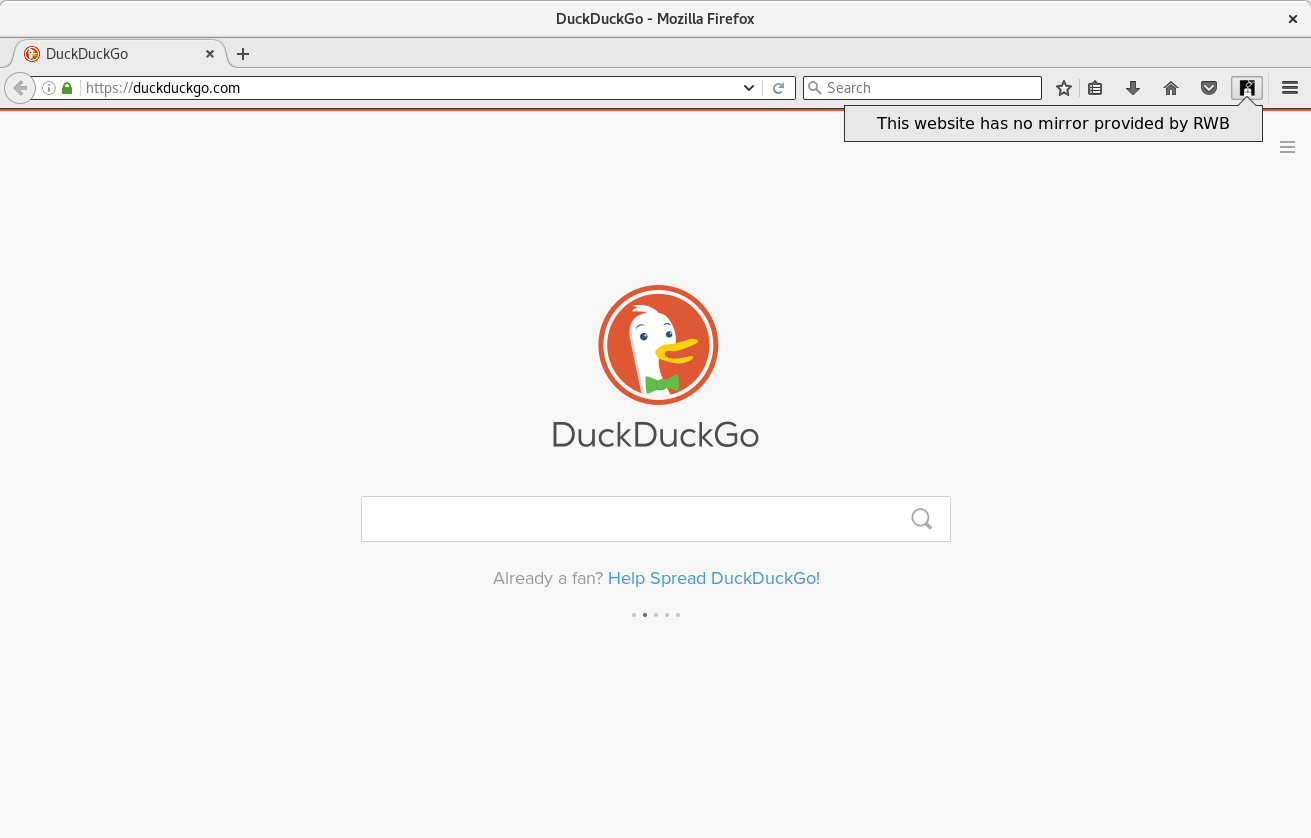
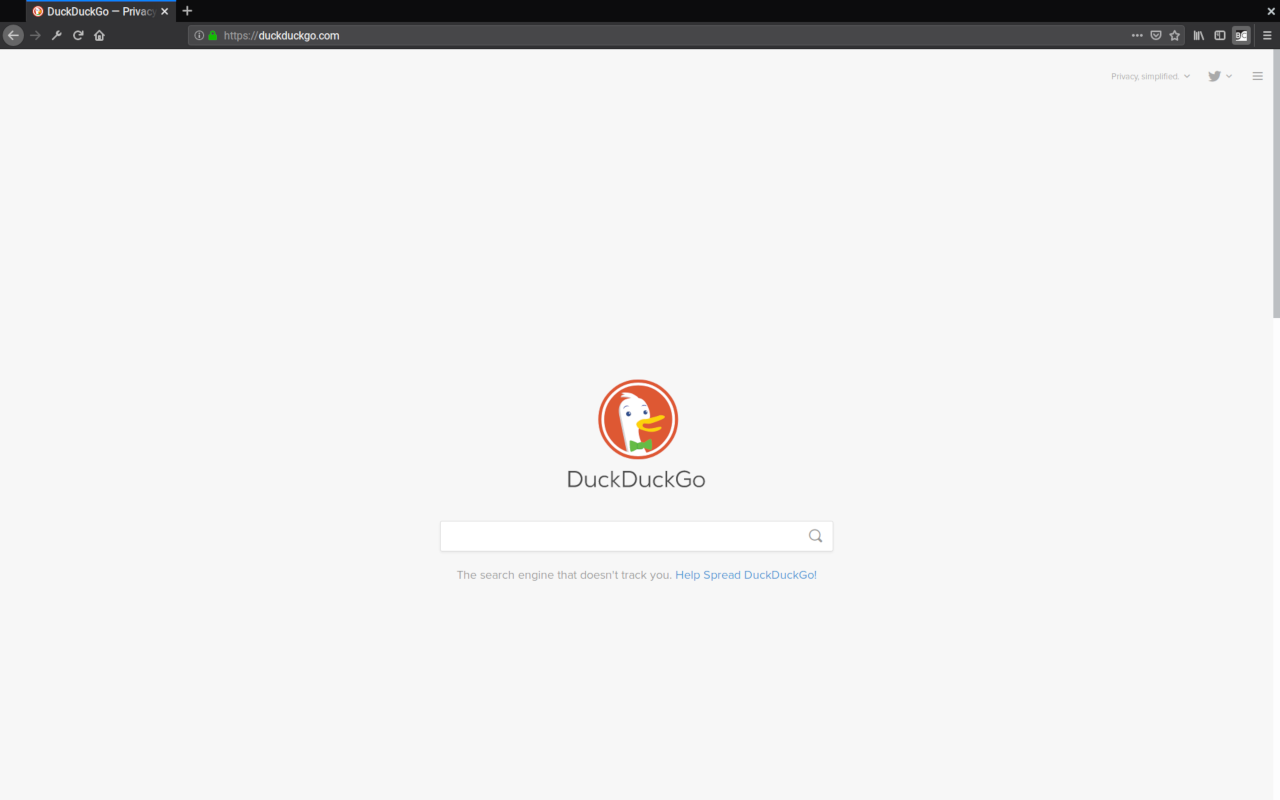
First pass at renaming and refactoring for BC.

Changed region(s): [[0.0, 0.0, 1.0, 0.4062], [0.4062, 0.3438, 0.5938, 0.625], [0.375, 0.6875, 0.625, 0.75]]

diff --git a/README.md b/README.md
@@ -1,39 +1,33 @@
-# RSF Censorship Detector
-Extension for Firefox. Sources for the Chrome and Chromium version can be found [here](https://github.com/babolivier/rsf-censorship-detector/tree/chrome).
+# Bypass Censorship Extension
 
-This extension has been developped by [Brendan Abolivier](https://github.com/babolivier) and [Clément Salaün](https://github.com/altitude)
-during the **Collateral Freedom** hackaton organised by [Reporters Without Borders](https://en.rsf.org/) and [An Daol Vras](http://lacantine-brest.net/). You can download it through the [GitHub releases](https://github.com/babolivier/rsf-censorship-detector/releases) or the [Mozilla addons website](https://addons.mozilla.org/en-US/firefox/addon/rsf-censorship-detector/).
+Cross-browser extension for Firefox and Chrome that suggests available mirrors for sites that may be censored. This extension and its list of mirrors is curated by [BypassCensorship.org](https://bypasscensorship.org).
 
-Its goal is to ease the access to the [**Collateral Freedom**](https://rsf.org/collateral-freedom) initiative, which replicates websites around the Web in order to make them available
-for everyone, including in the contries they're censored in.
+This extension is a fork of the [RSF Censorship Detector](https://git.abolivier.bzh/babolivier/rsf-censorship-detector) extension developped by [Brendan Abolivier](https://github.com/babolivier) and [Clément Salaün](https://github.com/altitude) during the **Collateral Freedom** hackaton organised by [Reporters Without Borders](https://en.rsf.org/) and [An Daol Vras](http://lacantine-brest.net/). To learn more about RSF's **Collateral Freedom** initiative, visit their site [here](https://rsf.org/collateral-freedom).
 
-## Howto
+## Usage
 
 The extension will add an icon next to your address bar. Most of the time, this icon will stay unchanged, and clicking it will show
-a message saying that no replication of the current tab's website has been set up by RWB.
+a message saying that no replication of the current tab's website has been set up by [BypassCensorship.org](https://bypasscensorship.org).
 
-![Screenshot 1](https://raw.githubusercontent.com/babolivier/collateral-freedom/firefox/screenshots/firefox/sc1.png)
+![Screenshot 1](https://raw.githubusercontent.com/OpenTechFund/bypass-censorship-extension/screenshots/firefox/sc1.png)
 
-When connecting (or trying to connect) to a website for which a replicated version has been set up by RWB, the extension's icon will turn
+When connecting (or trying to connect) to a website for which a replicated version has been set up by [BypassCensorship.org](https://bypasscensorship.org), the extension's icon will turn
 red. Clicking it will open a pop-up page with a button.
 
-![Screenshot 2](https://raw.githubusercontent.com/babolivier/collateral-freedom/firefox/screenshots/firefox/sc2.png)
+![Screenshot 2](https://raw.githubusercontent.com/OpenTechFund/bypass-censorship-extension/firefox/screenshots/firefox/sc2.png)
 
 If you click the button, it will bring you to the replicated website.
 
-![Screenshot 3](https://raw.githubusercontent.com/babolivier/collateral-freedom/firefox/screenshots/firefox/sc3.png)
+![Screenshot 3](https://raw.githubusercontent.com/OpenTechFund/bypass-censorship-extension/firefox/screenshots/firefox/sc3.png)
 
 ## Contribute
 
-If you want to contribute, please feel free to do so. The first thing to do may be to check [the repo's issues](https://github.com/babolivier/rsf-censorship-detector/issues).
+If you want to contribute, please feel free to do so. The first thing to do may be to check [the repo's issues](https://github.com/OpenTechFund/bypass-censorship-extension/issues).
 When you've found something to contribute on, just fork this repository, make your changes, and send a pull-request.
 
-## About Collateral Freedom
+The list of mirrors is maintained in a separate repository found [here](https://github.com/OpenTechFund/bypass-mirrors). If you would like to add a new site or mirror to the list that this extension supports, just open an issue or pull request there.
 
-To mark World Day Against Cyber-Censorship (12 March), Reporters Without Borders is launching “Operation Collateral Freedom” to **unblock nine censored websites in 11 countries that are on its list of “Enemies of the Internet**.”
+## License
+[<img src="https://www.gnu.org/graphics/agplv3-155x51.png" alt="AGPLv3" >](http://www.gnu.org/licenses/agpl-3.0.html)
 
-To render these ten sites accessible to the public in these countries, Reporters Without Borders has created mirror copies and has placed each copy with hosting services in the cloud provided by Amazon, Google and Microsoft. The countries concerned could block these services but almost certainly will not. Blocking Amazon or Microsoft or any major cloud computing service provider would cripple the thousands of companies that use them every day. The economic and political cost of blocking the mirror sites would therefore be too high.
-
-Operation *#CollateralFreedom* is the brainchild of [GreatFire](https://zh.greatfire.org/), an NGO operated by Chinese activists that has already created unblockable mirror sites of Deutsche Welle, Google and China Digital Times. [GreatFire’s tools and technology are freely available](https://github.com/greatfire/wiki/wiki) online for anyone to use to combat online censorship.
-
-(taken from the [official GitHub repository](https://github.com/RSF-RWB/collateralfreedom) for Collateral Freedom)
+The Bypass Censorship Extension is a free software project licensed under the GNU Affero General Public License v3.0 (AGPLv3) by the [Open Technology Fund](https://opentech.fund).
